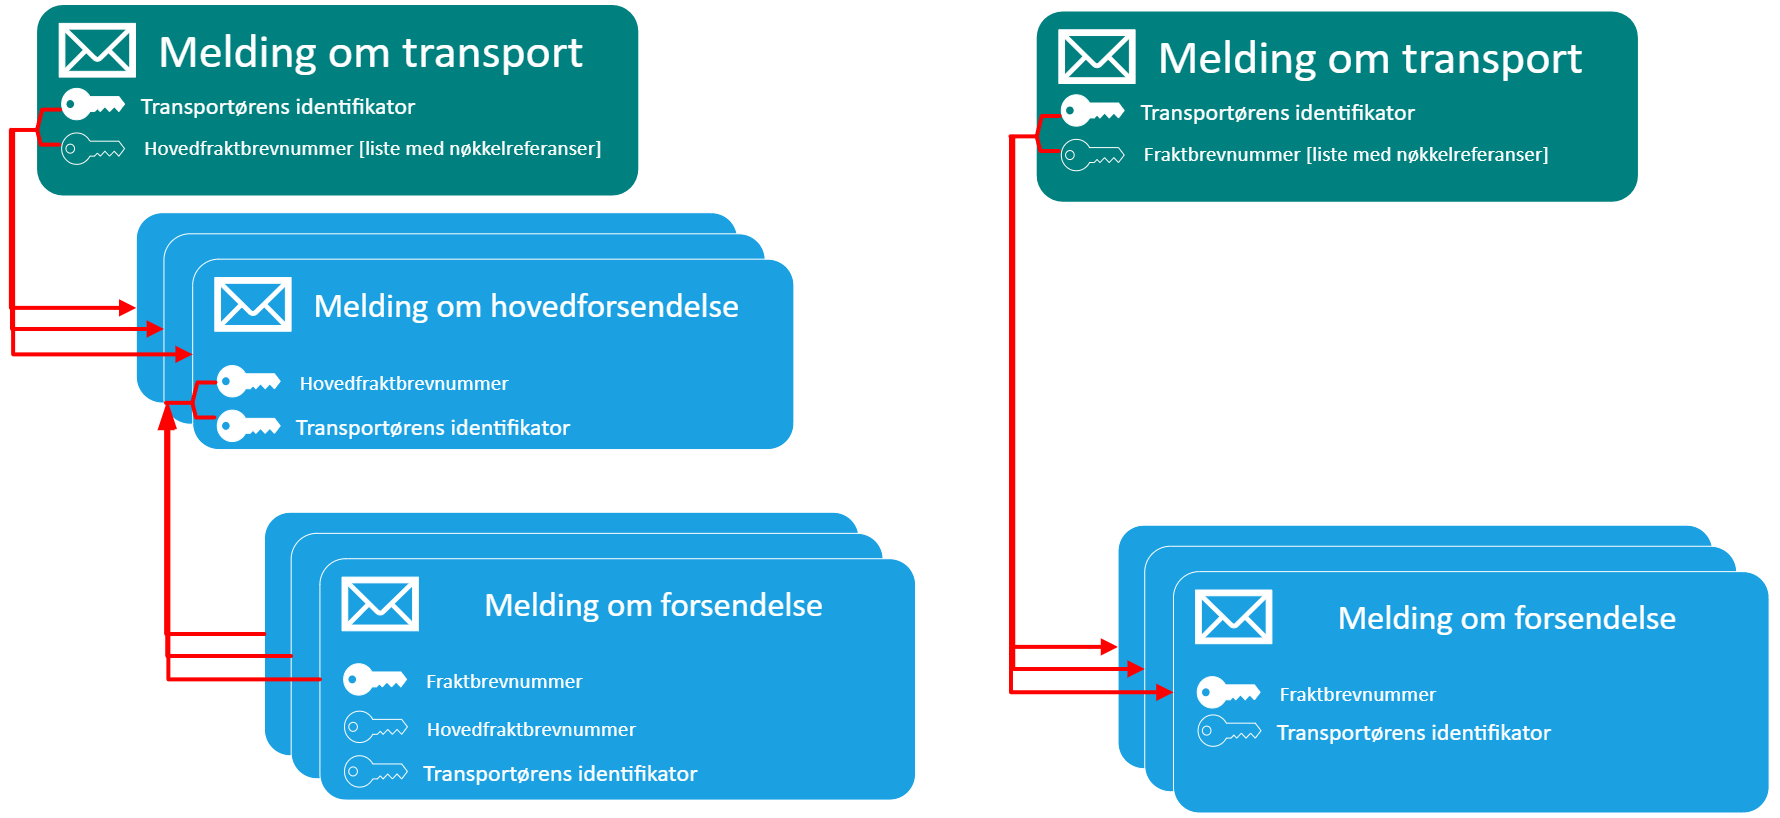
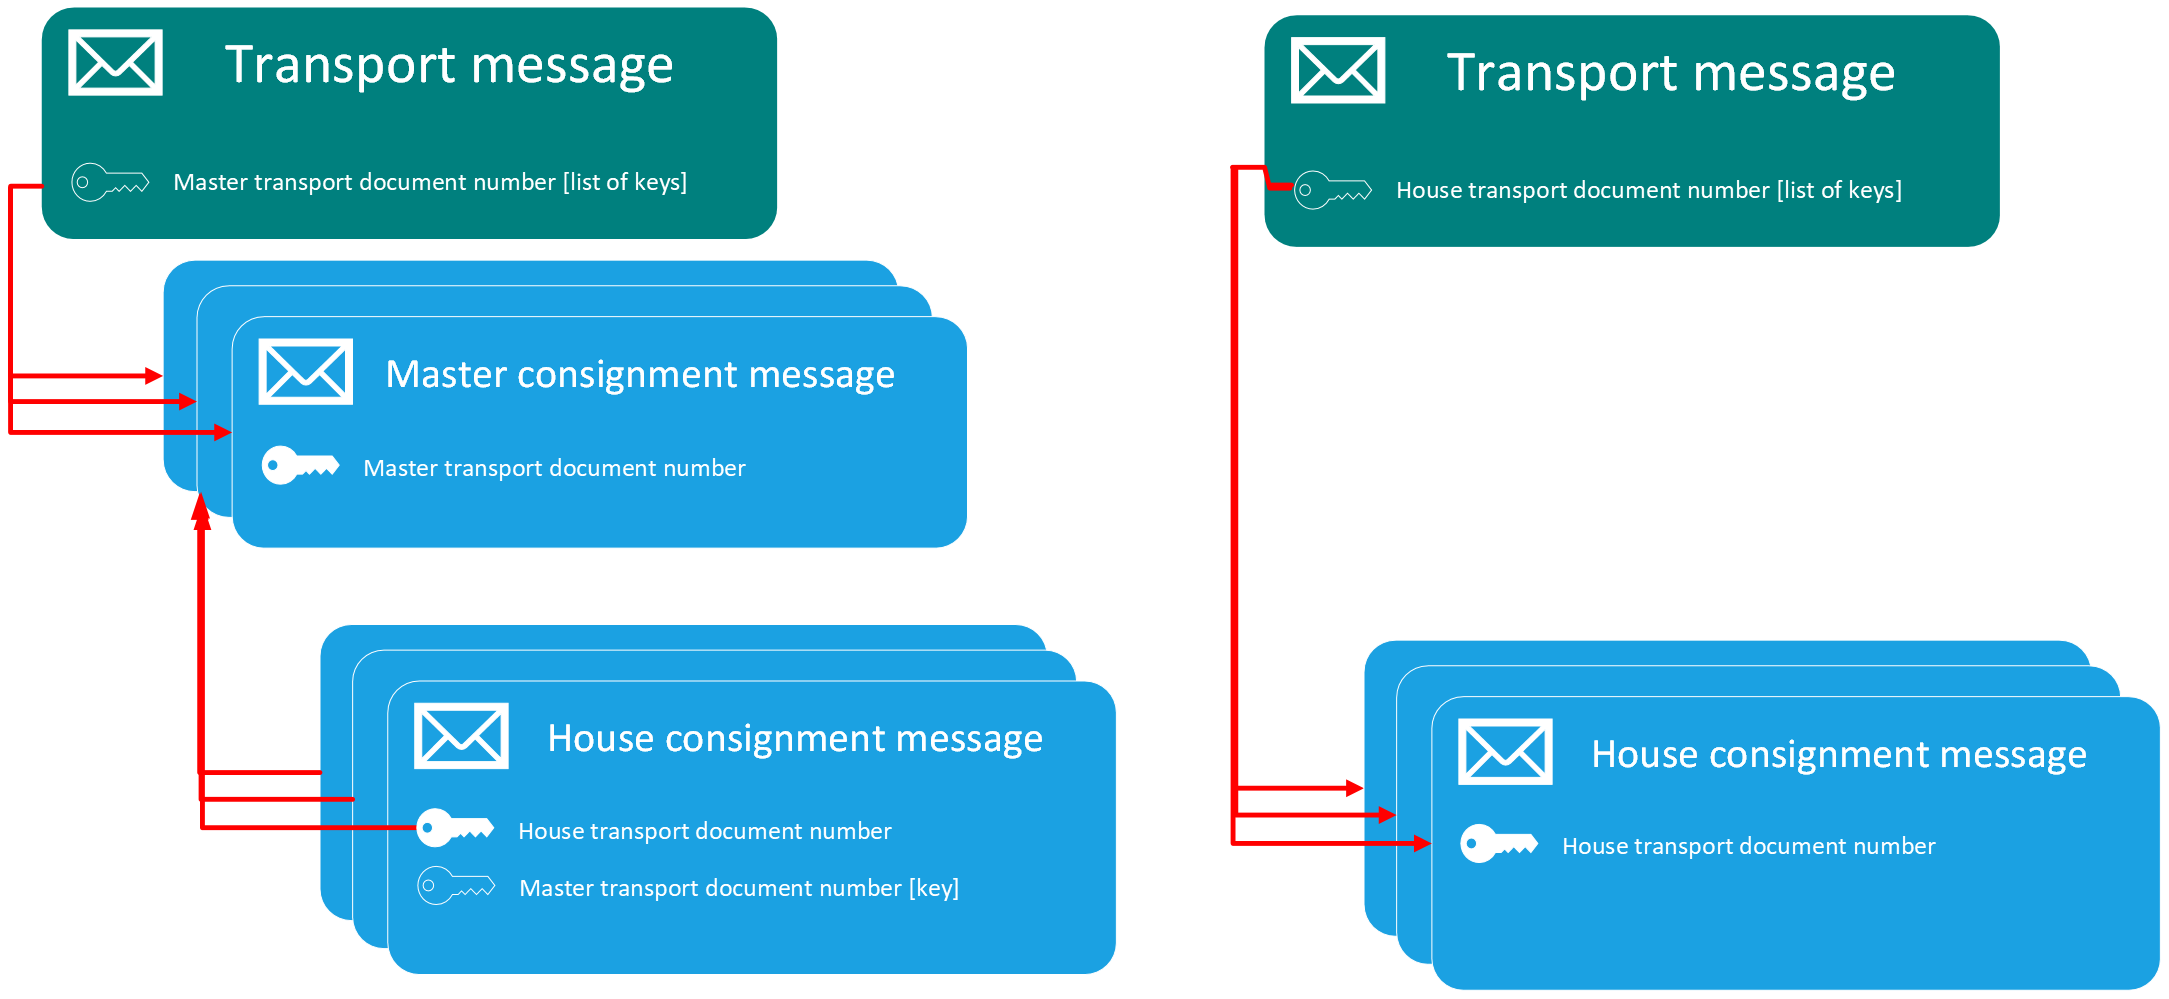
DIGIT-20199: Correct spelling in NATO_FORM_302 description in documentation

diff --git a/api/mo/mo-kodeverk-EN.html b/api/mo/mo-kodeverk-EN.html
@@ -7491,7 +7491,7 @@
                     <tr>
                         <td>NATO_FORM_302</td>
                         <td>NATO Formular 302</td>
-                        <td>Consignment handled as NATO material under Form 302.
+                        <td>Consignment handled as NATO material under formular 302.
                         </td>
                     </tr>
                     </tbody>
